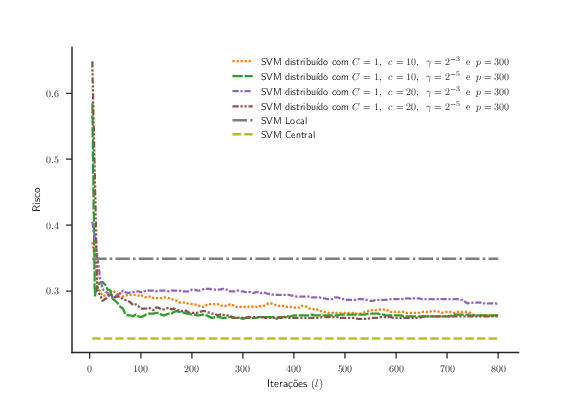
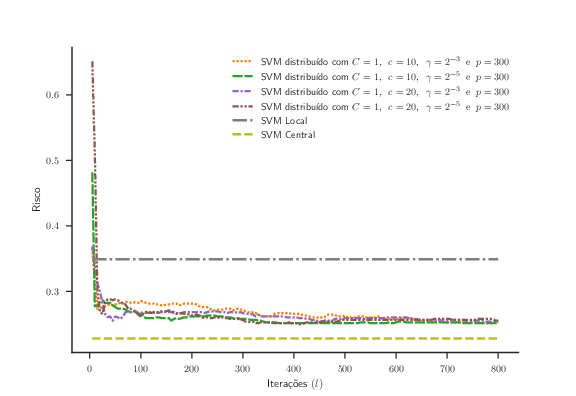
README

diff --git a/README.md b/README.md
@@ -1,5 +1,4 @@
 # ADMMSVM
---
 
 ADMMSVM is the implementation made for my master dissertation, University of Campinas (UNICAMP), Brazil, with the title **Alternating directions
 method of multipliers with applications in distributed support vector problems**.
@@ -9,14 +8,14 @@ applicable over distributed classification problem, in which the training data a
 between the node.
 
 ## Description
---
+
 The dissertation can be found [here](https://github.com/caiodadauto/Distributed-SVM/blob/master/dissertation/dissertation.pdf) ( in Portuguese)
 and the presentation is [here](https://github.com/caiodadauto/Distributed-SVM/blob/master/dissertation/presentation.pdf) (in Portuguese).
 Although the dissertation is in Portuguese, this [reference](https://dl.acm.org/citation.cfm?id=1859906) is helpful to understanding this
 work, since my dissertation is based on it.
 
 ## Usage
---
+
 To run this implementation, it is require the following packages,
 * `netwokx==1.8`
 * `numpy>=1.13`
@@ -26,8 +25,31 @@ To run this implementation, it is require the following packages,
 * `mpi4py==2.0.0`
 
 ## Numerical Evaluation
---
-### Simple Case
+
+All centralized SVM results are achieved using `sklearn`.
+
+### Simple Linear Case
+
+The graph below shows the linear approximation for a random simple dataset generated using `sklearn`.
+
+![](https://github.com/caiodadauto/ADMMSVM/blob/master/img/simple.png)
+
+### Simple Non-Linear Case
+
+The graphs below show the non-linear approximation using both centralized and distributed SVM applied to a dataset modeled as a chess table. Note that the
+non-linear approximation is not the same in these two scenarios.
+
 Centralized SVM             |   Distributed ADMMSVM
 :-------------------------:|:-------------------------:
-![]()  |  ![]()--
+![](https://github.com/caiodadauto/ADMMSVM/blob/master/img/central_non_linear_classifier.png)  |  ![](https://github.com/caiodadauto/ADMMSVM/blob/master/img/dist_non_linear_classifier_0.png)--
+
+Furthermore, the following graph illustrates a possible wrong SVM estimation if only a part of the data are accessible to the model.
+
+![](https://github.com/caiodadauto/ADMMSVM/blob/master/img/local_non_linear_classifier.png)
+
+### Real Dataset (Non-Linear Case)
+
+The graph below shows the accuracy over ADMMSVM iterations for different hyper-parameters compared with centralized SVM results.
+This numerical evaluation uses the [Pima Indians diabetes database](https://www.kaggle.com/uciml/pima-indians-diabetes-database).
+
+![](https://github.com/caiodadauto/ADMMSVM/blob/master/img/risk_plot_0.png)
